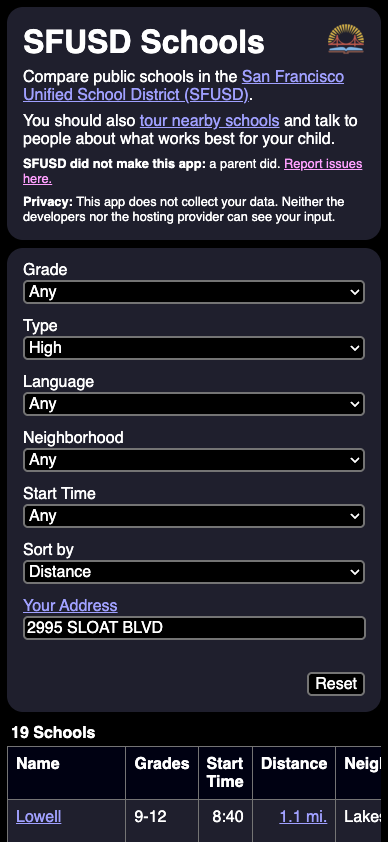
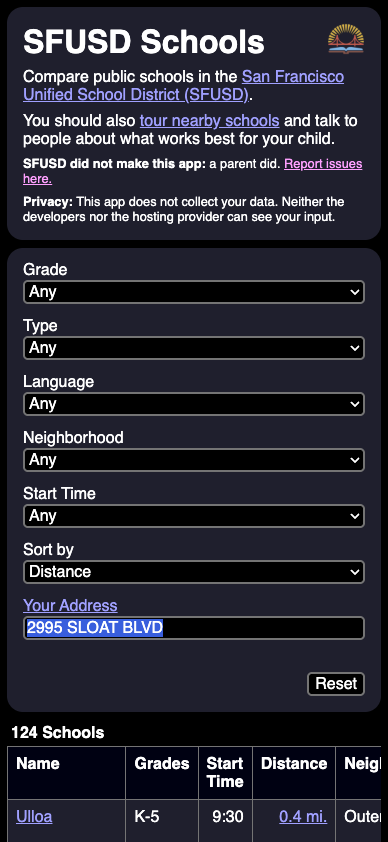
Specify input selection colors.

diff --git a/public/main.css b/public/main.css
@@ -68,6 +68,11 @@ button, input, select {
     font: inherit;
 }
 
+input::selection {
+    background-color: #bdf;
+    color: black;
+}
+
 button {
     height: 1.5rem;
     margin-top: 1rem;
@@ -165,6 +170,11 @@ tr:hover {
 
     button, input, select {
         background-color: black;
+        color: white;
+    }
+
+    input::selection {
+        background-color: royalblue;
         color: white;
     }
 
